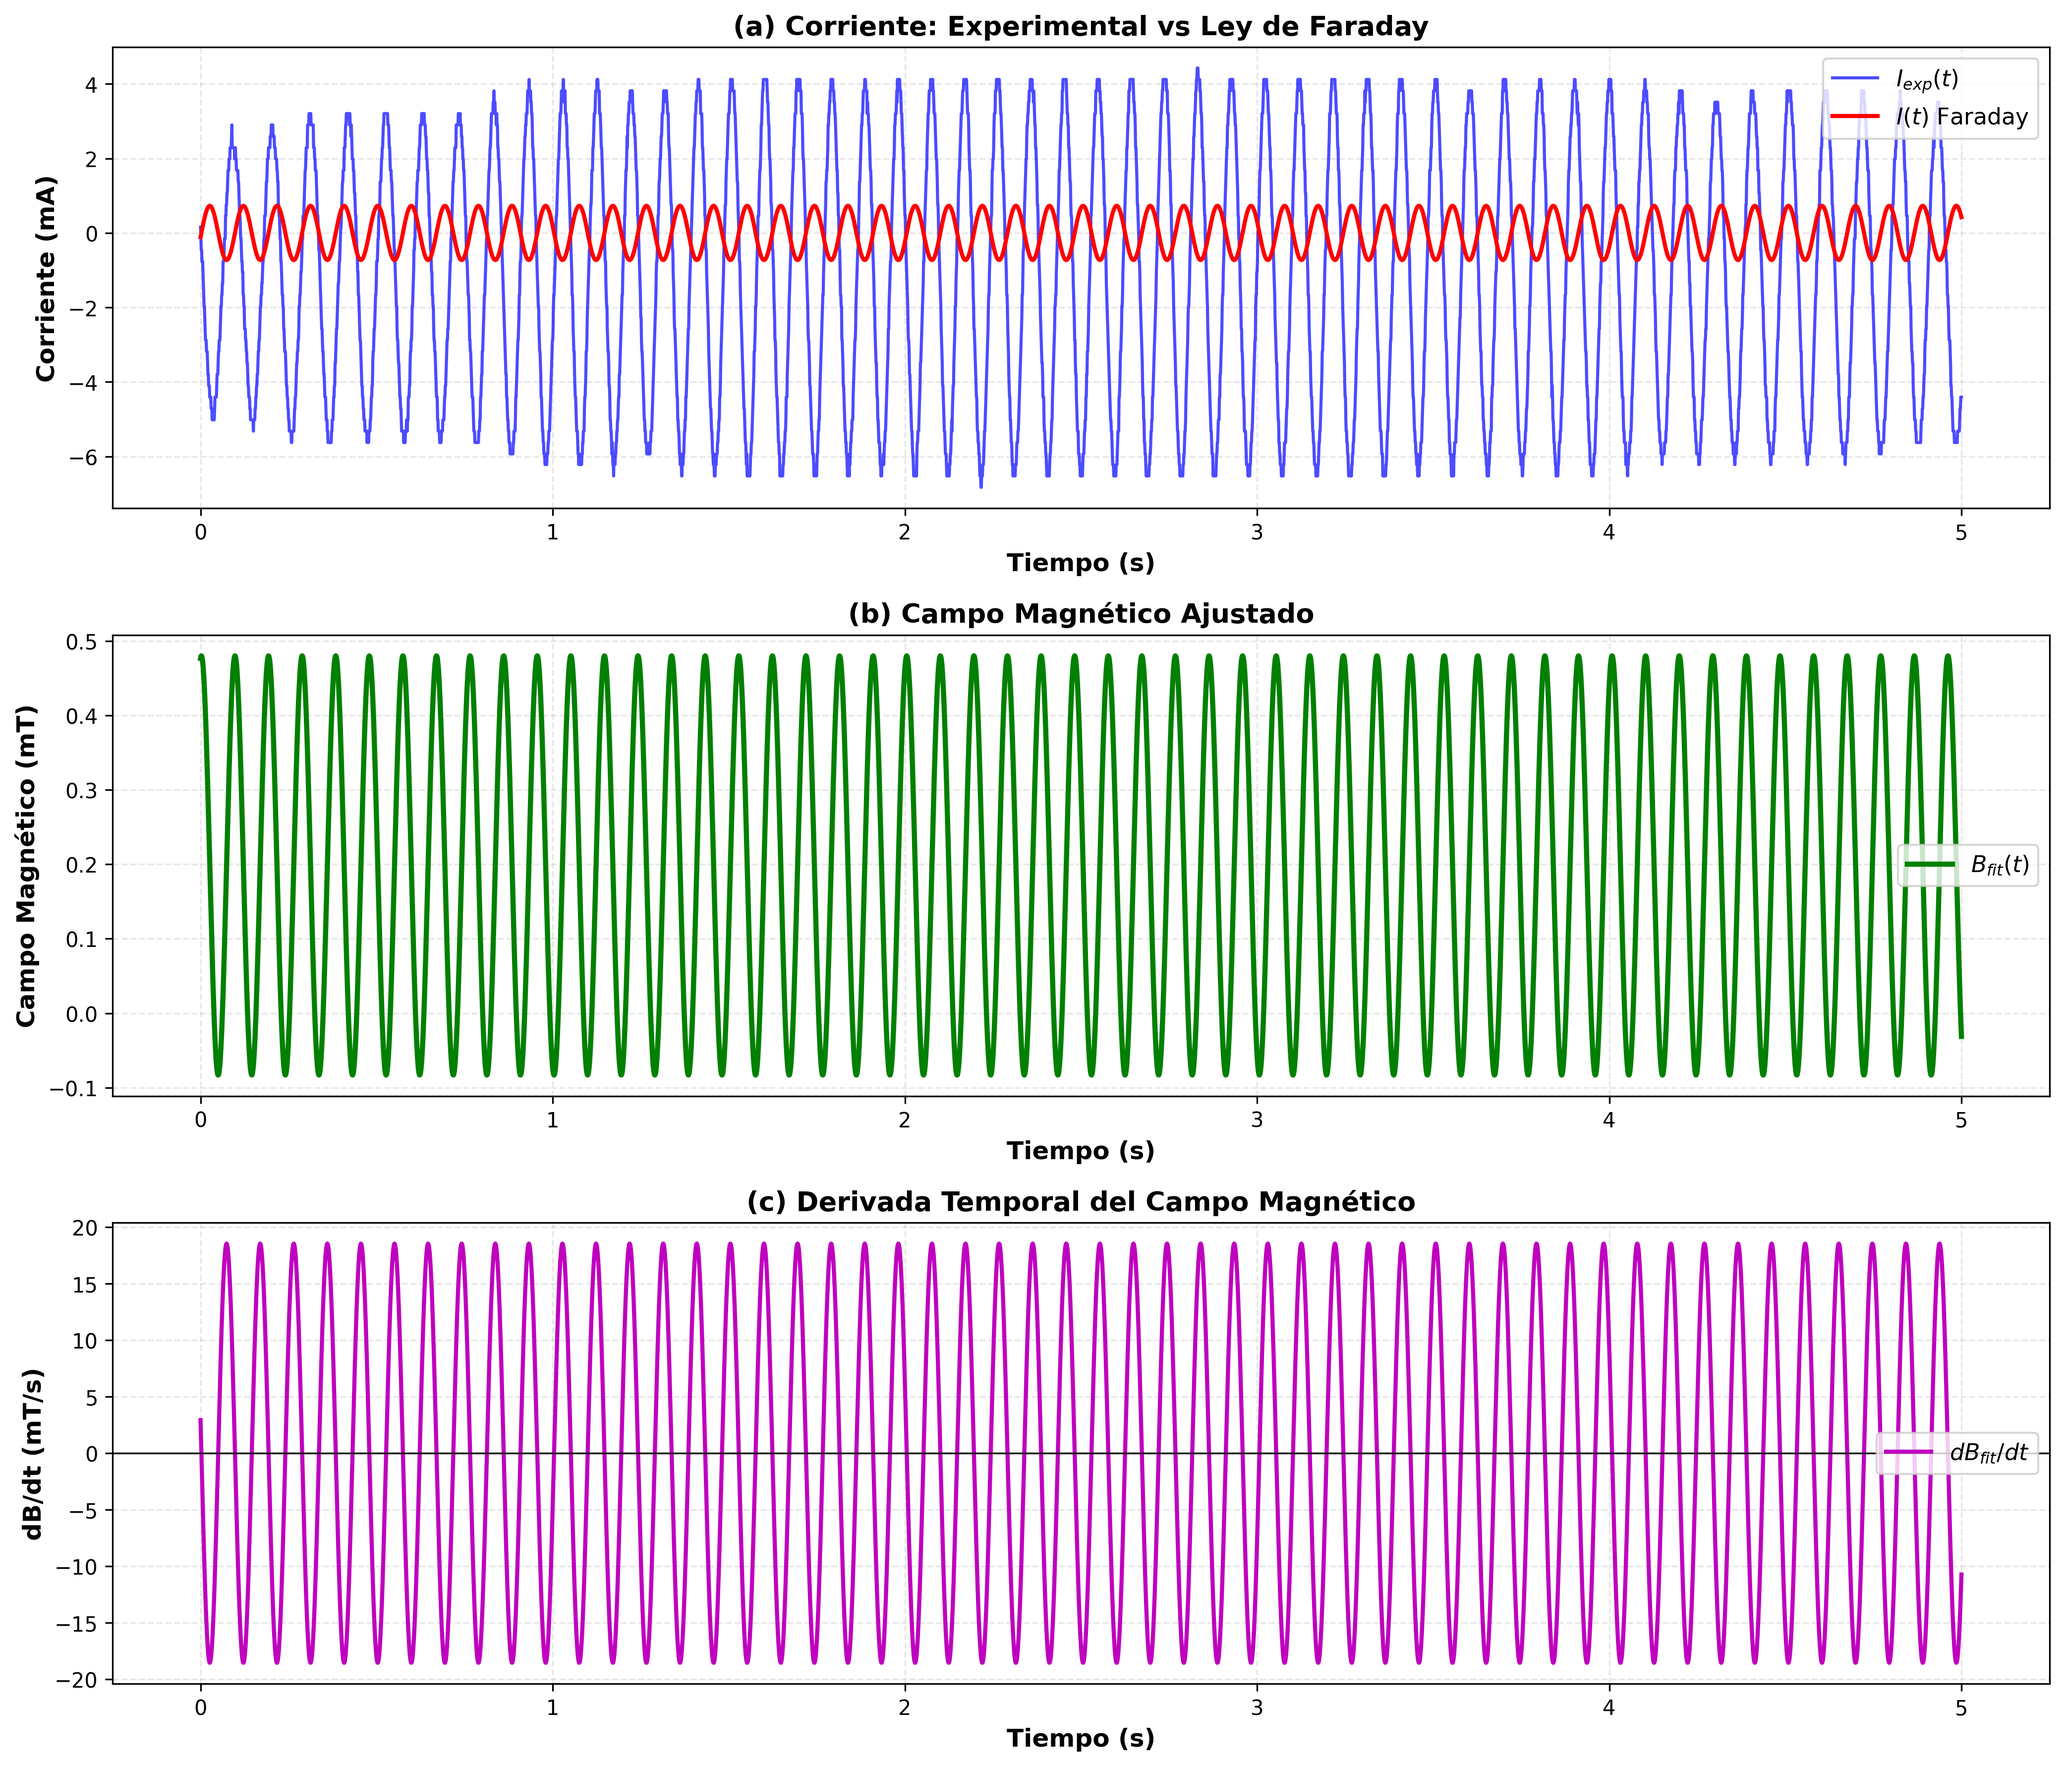
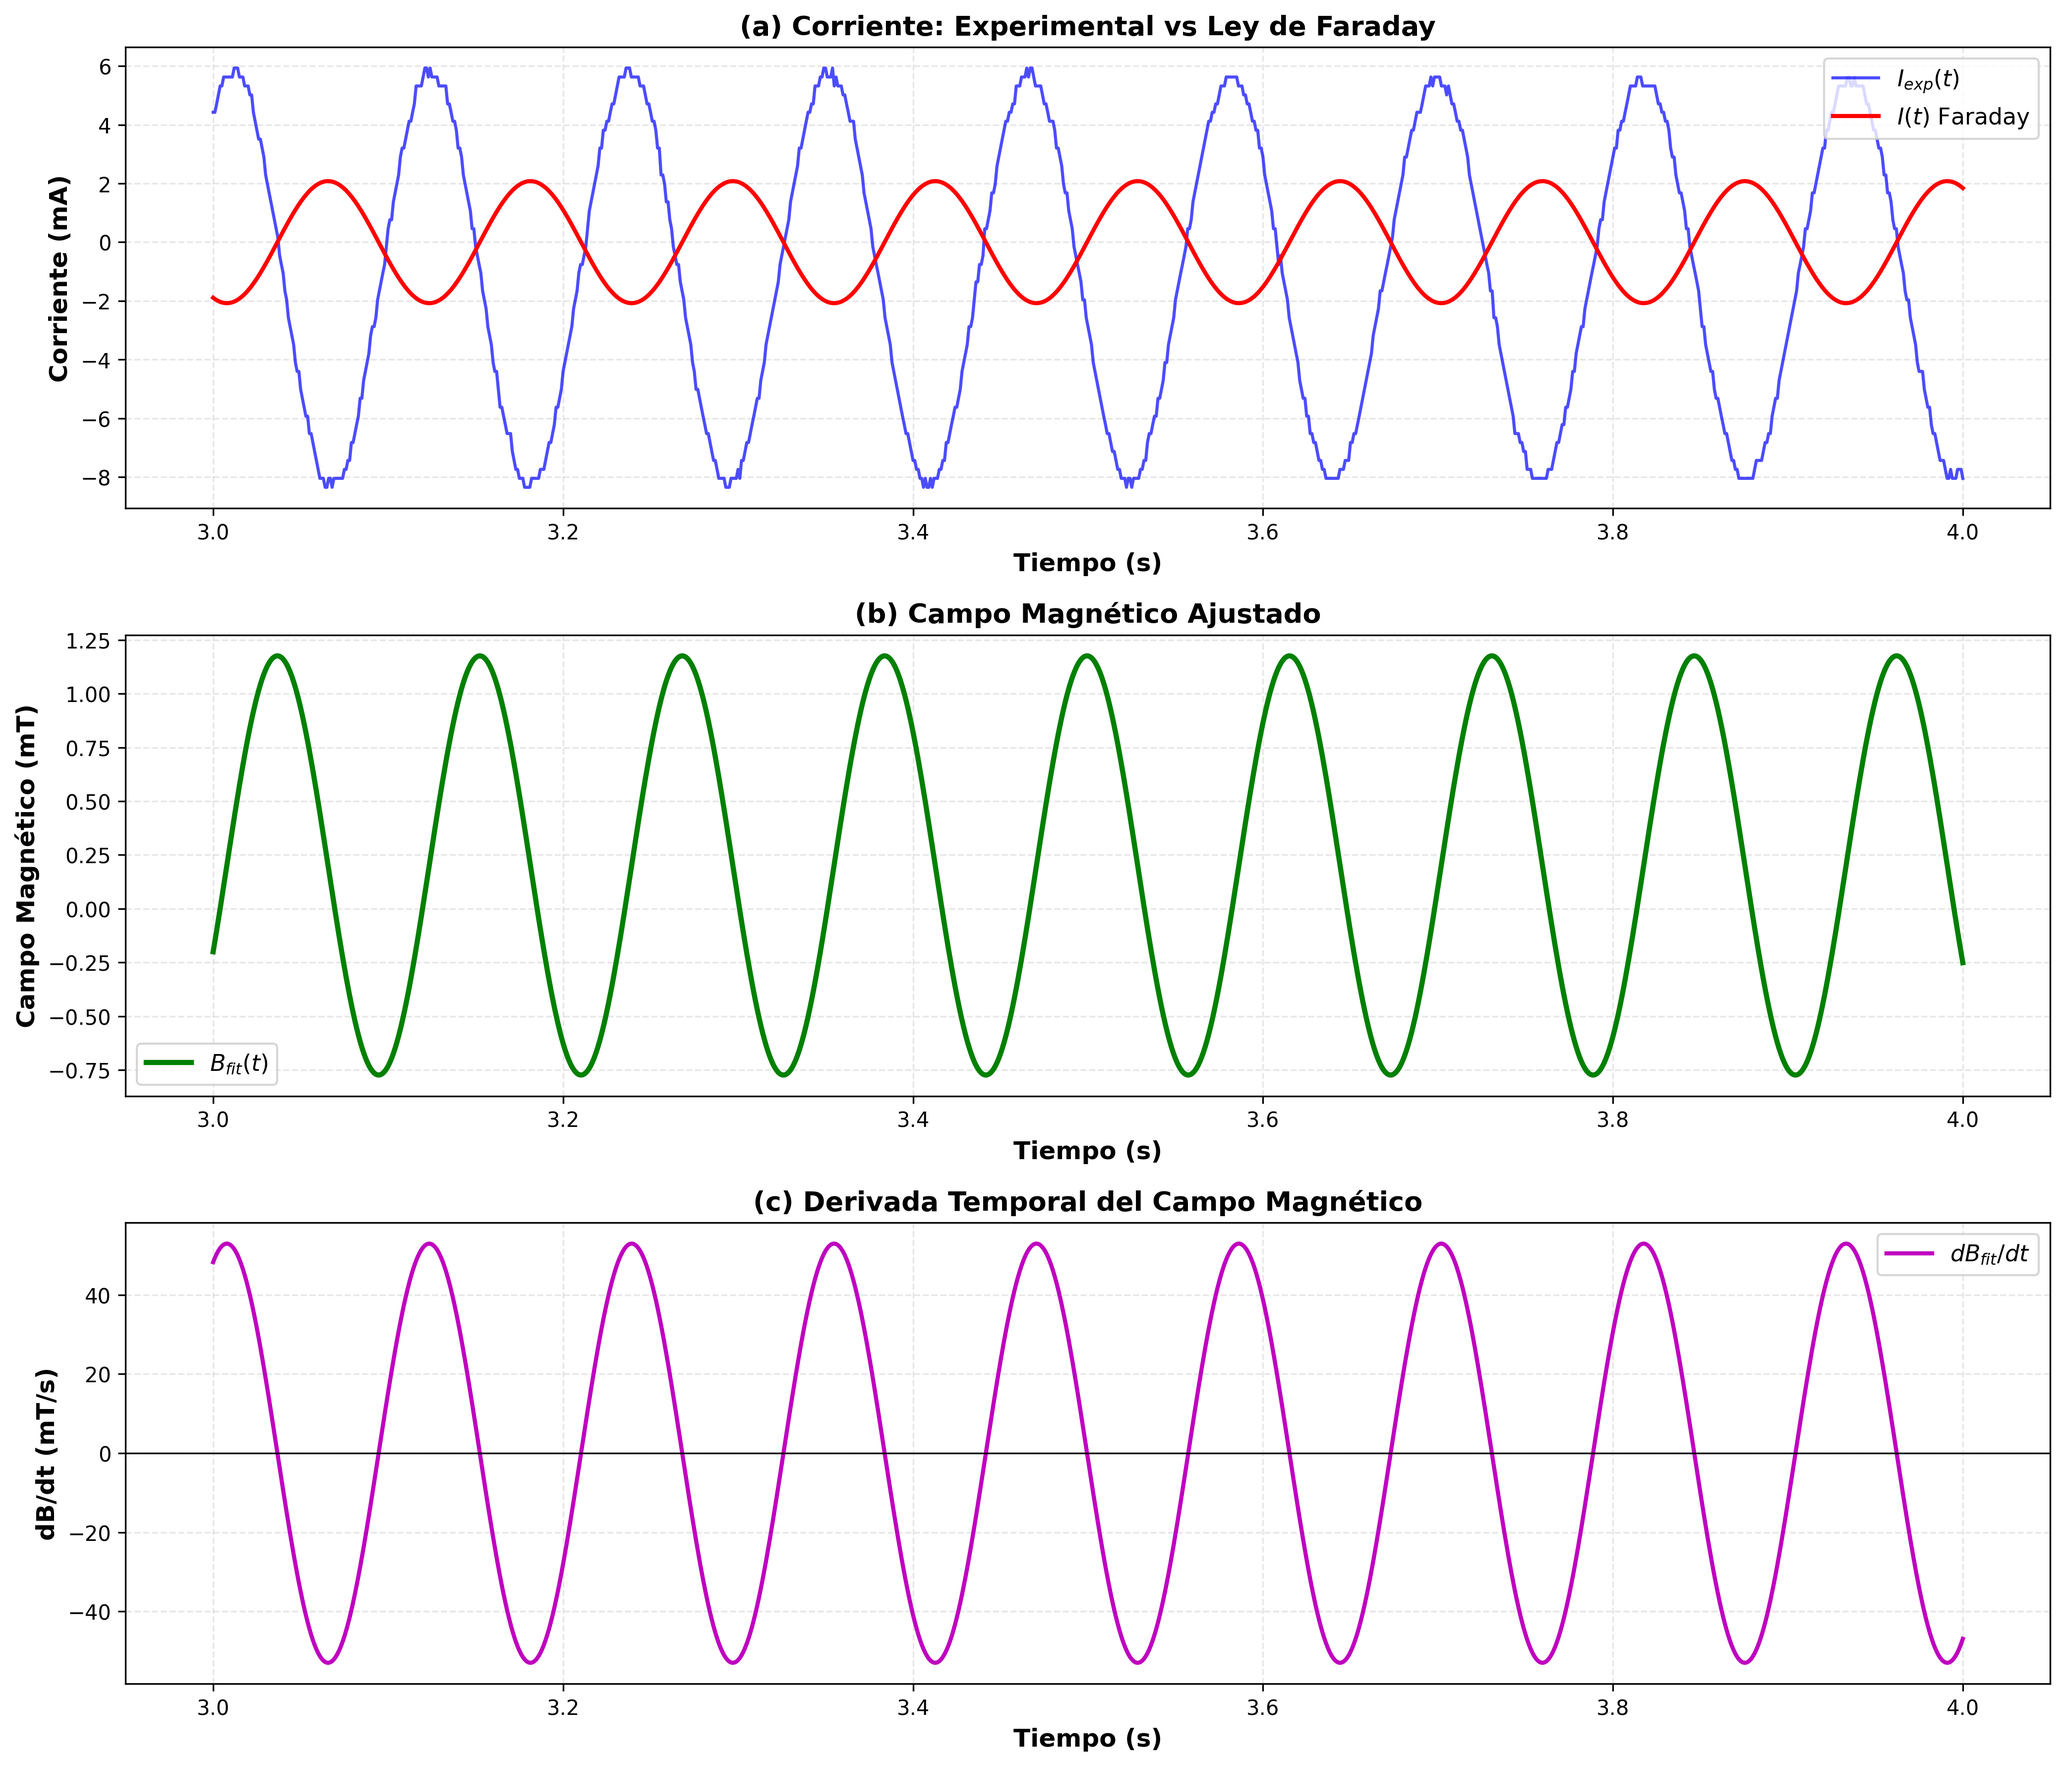
Actualizar scripts y gráficas para trabajar con datos de 3 a 4 segundos
- Modificar todos los scripts Python para usar datafinal.txt en lugar de lab_data.txt
- Filtrar datos solo en el rango de 3.0 a 4.0 segundos
- Actualizar parámetros del ajuste B_fit con los nuevos valores:
  * A = 0.974862 mT, B = 54.314376 rad/s
  * C = 6.278328 rad, D = 0.201169 mT
  * R² = 0.9734 (mejor ajuste que con datos completos)
- Regenerar todas las gráficas con la ventana temporal especificada
- Mejora significativa en la calidad del ajuste senoidal

diff --git a/calcular_corriente_faraday.py b/calcular_corriente_faraday.py
@@ -41,24 +41,32 @@ print("="*70)
 # ============================================================================
 
 print("\nCargando datos experimentales...")
-data = np.loadtxt('lab_data.txt', skiprows=7, max_rows=5001, delimiter='\t')
+data = np.loadtxt('datafinal.txt', skiprows=7, delimiter='\t')
 
 # Extraer columnas
-t_exp = data[:, 0]      # Tiempo en segundos
-B_exp = data[:, 1]      # Campo magnético experimental en mT
-I_exp = data[:, 2]      # Corriente experimental en A
+t_all = data[:, 0]      # Tiempo en segundos
+B_all = data[:, 1]      # Campo magnético experimental en mT
+I_all = data[:, 2]      # Corriente experimental en A
 
-print(f"✓ Datos cargados: {len(t_exp)} puntos")
+# Filtrar datos entre 3 y 4 segundos
+print("Filtrando datos entre 3.0 y 4.0 segundos...")
+mask = (t_all >= 3.0) & (t_all <= 4.0)
+t_exp = t_all[mask]
+B_exp = B_all[mask]
+I_exp = I_all[mask]
+
+print(f"✓ Datos cargados y filtrados: {len(t_exp)} puntos en rango [3.0, 4.0] s")
 
 # ============================================================================
 # PARÁMETROS DEL AJUSTE B_fit(t) = A·sin(B·t + C) + D
 # ============================================================================
 
 # Parámetros obtenidos del ajuste de curva (ajuste_curva_B.py)
-A_fit = -0.281534      # Amplitud en mT
-B_fit = 65.881770      # Frecuencia angular ω en rad/s
-C_fit = -1.729388      # Fase inicial en rad
-D_fit = 0.198389       # Offset en mT
+# Datos filtrados entre 3.0 y 4.0 segundos
+A_fit = 0.974862       # Amplitud en mT
+B_fit = 54.314376      # Frecuencia angular ω en rad/s
+C_fit = 6.278328       # Fase inicial en rad
+D_fit = 0.201169       # Offset en mT
 
 print("\nParámetros del ajuste B_fit(t) = A·sin(B·t + C) + D:")
 print(f"  A = {A_fit:.6f} mT")

diff --git a/plot_experimental_data.py b/plot_experimental_data.py
@@ -11,15 +11,19 @@ import matplotlib.pyplot as plt
 # Configurar estilo de gráficas
 plt.style.use('seaborn-v0_8-darkgrid')
 
-# Leer datos del archivo
-# Las primeras 7 líneas son encabezados, los datos comienzan en la línea 8
-# El archivo contiene múltiples series, leemos solo las primeras 5000 filas de datos
-data = np.loadtxt('lab_data.txt', skiprows=7, max_rows=5001, delimiter='\t')
+# Leer datos del archivo datafinal.txt
+data = np.loadtxt('datafinal.txt', skiprows=7, delimiter='\t')
 
 # Extraer columnas
-t_exp = data[:, 0]      # Tiempo en segundos
-B_exp = data[:, 1]      # Campo magnético en mT
-I_exp = data[:, 2]      # Corriente en A
+t_all = data[:, 0]      # Tiempo en segundos
+B_all = data[:, 1]      # Campo magnético en mT
+I_all = data[:, 2]      # Corriente en A
+
+# Filtrar datos entre 3 y 4 segundos
+mask = (t_all >= 3.0) & (t_all <= 4.0)
+t_exp = t_all[mask]
+B_exp = B_all[mask]
+I_exp = I_all[mask]
 
 # Crear figura con dos subgráficas
 fig, (ax1, ax2) = plt.subplots(2, 1, figsize=(10, 8))

diff --git a/ajuste_curva_B.py b/ajuste_curva_B.py
@@ -12,11 +12,17 @@ from scipy.optimize import curve_fit
 
 # Leer datos del archivo
 print("Cargando datos experimentales...")
-data = np.loadtxt('lab_data.txt', skiprows=7, max_rows=5001, delimiter='\t')
+data = np.loadtxt('datafinal.txt', skiprows=7, delimiter='\t')
 
 # Extraer columnas
-t_exp = data[:, 0]      # Tiempo en segundos
-B_exp = data[:, 1]      # Campo magnético en mT
+t_all = data[:, 0]      # Tiempo en segundos
+B_all = data[:, 1]      # Campo magnético en mT
+
+# Filtrar datos entre 3 y 4 segundos
+print("Filtrando datos entre 3.0 y 4.0 segundos...")
+mask = (t_all >= 3.0) & (t_all <= 4.0)
+t_exp = t_all[mask]
+B_exp = B_all[mask]
 
 # Definir la función de ajuste: B_fit = A*sin(B*t + C) + D
 def modelo_senoidal(t, A, B, C, D):
